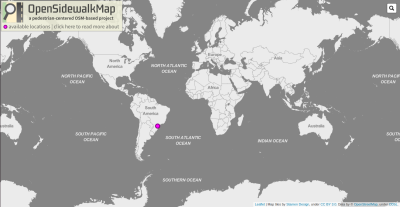
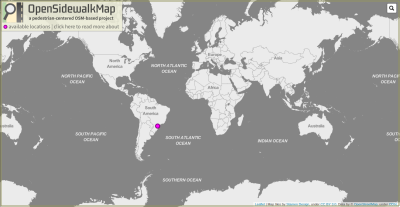
first about version

diff --git a/about.html b/about.html
@@ -45,7 +45,7 @@
 
     <style>
         body {
-          background-image: url('assets/sidewalk_background2.jpg');
+          background-image: url('assets/sidewalk_background3.png');
           background-repeat: no-repeat;
           background-attachment: fixed;
           background-size: cover;
@@ -66,23 +66,27 @@
     align-items: center;
         }
 
-        .container {
+        .container_v2 {
   display: flex;
   height: 100%;
   min-height: 0;
+  padding: 5px;
+}
+
+.responsive-font{
+    font-size: min(25px,2.2vw);
 }
         </style> 
 
 
-<h2><br></h2>
 
 
-<h1>
+<h1 style="font-size: min(40px,3.5vw);">
 
 
 
     <img title="OSWM Logo" src="assets/project_logo.png" alt="OSWM Logo"
-    style="vertical-align:middle" class="responsive">
+    style="vertical-align:middle; padding: 10px;" class="responsive">
 
     
 
@@ -94,19 +98,17 @@
 
 </h1>
 
-<h2><br></h2>
 
 
-<h3 style="text-align: center;color: rgb(229, 231, 128);">
+<h3 style="text-align: center;color: rgb(231, 234, 63);padding: 10px;font-size: min(30px,2.8vw);">
 
     A project focused on OpenStreetMap Sidewalk Networks Data!!
 
 </h3>
 
-<h2><br></h2>
 
 
-    <div class="row vertical-center horizontal-center container">
+    <div class="row vertical-center container_v2">
 
         <div class="col">
 
@@ -117,30 +119,51 @@
   
         </div>
 
-        <div class="col" style="font-size:2.2vw;"><span >We have a decentered structure:<br> for each location, one implementation!!<span></div>
+        <div class="col"><span class="responsive-font">We have a decentered structure:<br> for each location, one implementation!!<span></div>
 
     </div>
 
 
-    <div class="row vertical-center container">
+    <div class="row vertical-center container_v2">
 
-        <div class="col" style="font-size:2.2vw;"><span >We have a decentered structure:<br> for each location, one implementation!!<span></div>
+        <div class="col"><span class="responsive-font">Each implementation<br><a href="https://docs.google.com/presentation/d/e/2PACX-1vREy5o4tl4xt1osUidqQjImrmQDyAuh9sxAuc3SeP5jmQzAmzj5yjDrFxwN4dxMbbwnb8V0qlaCrlUn/pub?start=true&loop=false&delayms=60000#slide=id.gf4921d47bb_0_0" style="color:rgb(231, 234, 63)">is modular</a><br>so we can develop many applications<span></div>
 
         <div class="col">
 
             <a href="https://kauevestena.github.io/opensidewalkmap/">
-            <img title="OSWM Home" src="assets/images/home_img.png" alt="OSWM home img"
+                <img title="OSWM modules" src="assets/images/modules.gif" alt="OSWM modules img"
+                class="responsive" width="400">
+                </a>
+  
+        </div>
+
+
+
+    </div>
+
+    <div class="row vertical-center container_v2">
+
+        <div class="col">
+
+            <a href="https://kauevestena.github.io/opensidewalkmap/">
+            <img title="OSWM modules" src="assets/images/webmap_thumb.png" alt="OSWM modules img"
             class="responsive">
             </a>
   
         </div>
 
-
+        <div class="col"><span class="responsive-font">The main module is<br>a WEBMAP containing <br> a cartographic representation<br> with access to each feature<span></div>
 
     </div>
 
 
     <h2><br></h2>
+
+
+
+<h2 style="font-size: min(40px,3.5vw);padding-bottom: 20px;">coming soon: Tutorials on how to deploy an OSWM instance for a region!!<br></h2>
+
+<h2 style="font-size: min(30px,2.5vw);;">2022, by Kauê de Moraes Vestena<br> as part of my phd work at UFPR<br>funded by CAPES<br> follow me: @kauevestena </h2>
 
 
 </body>
